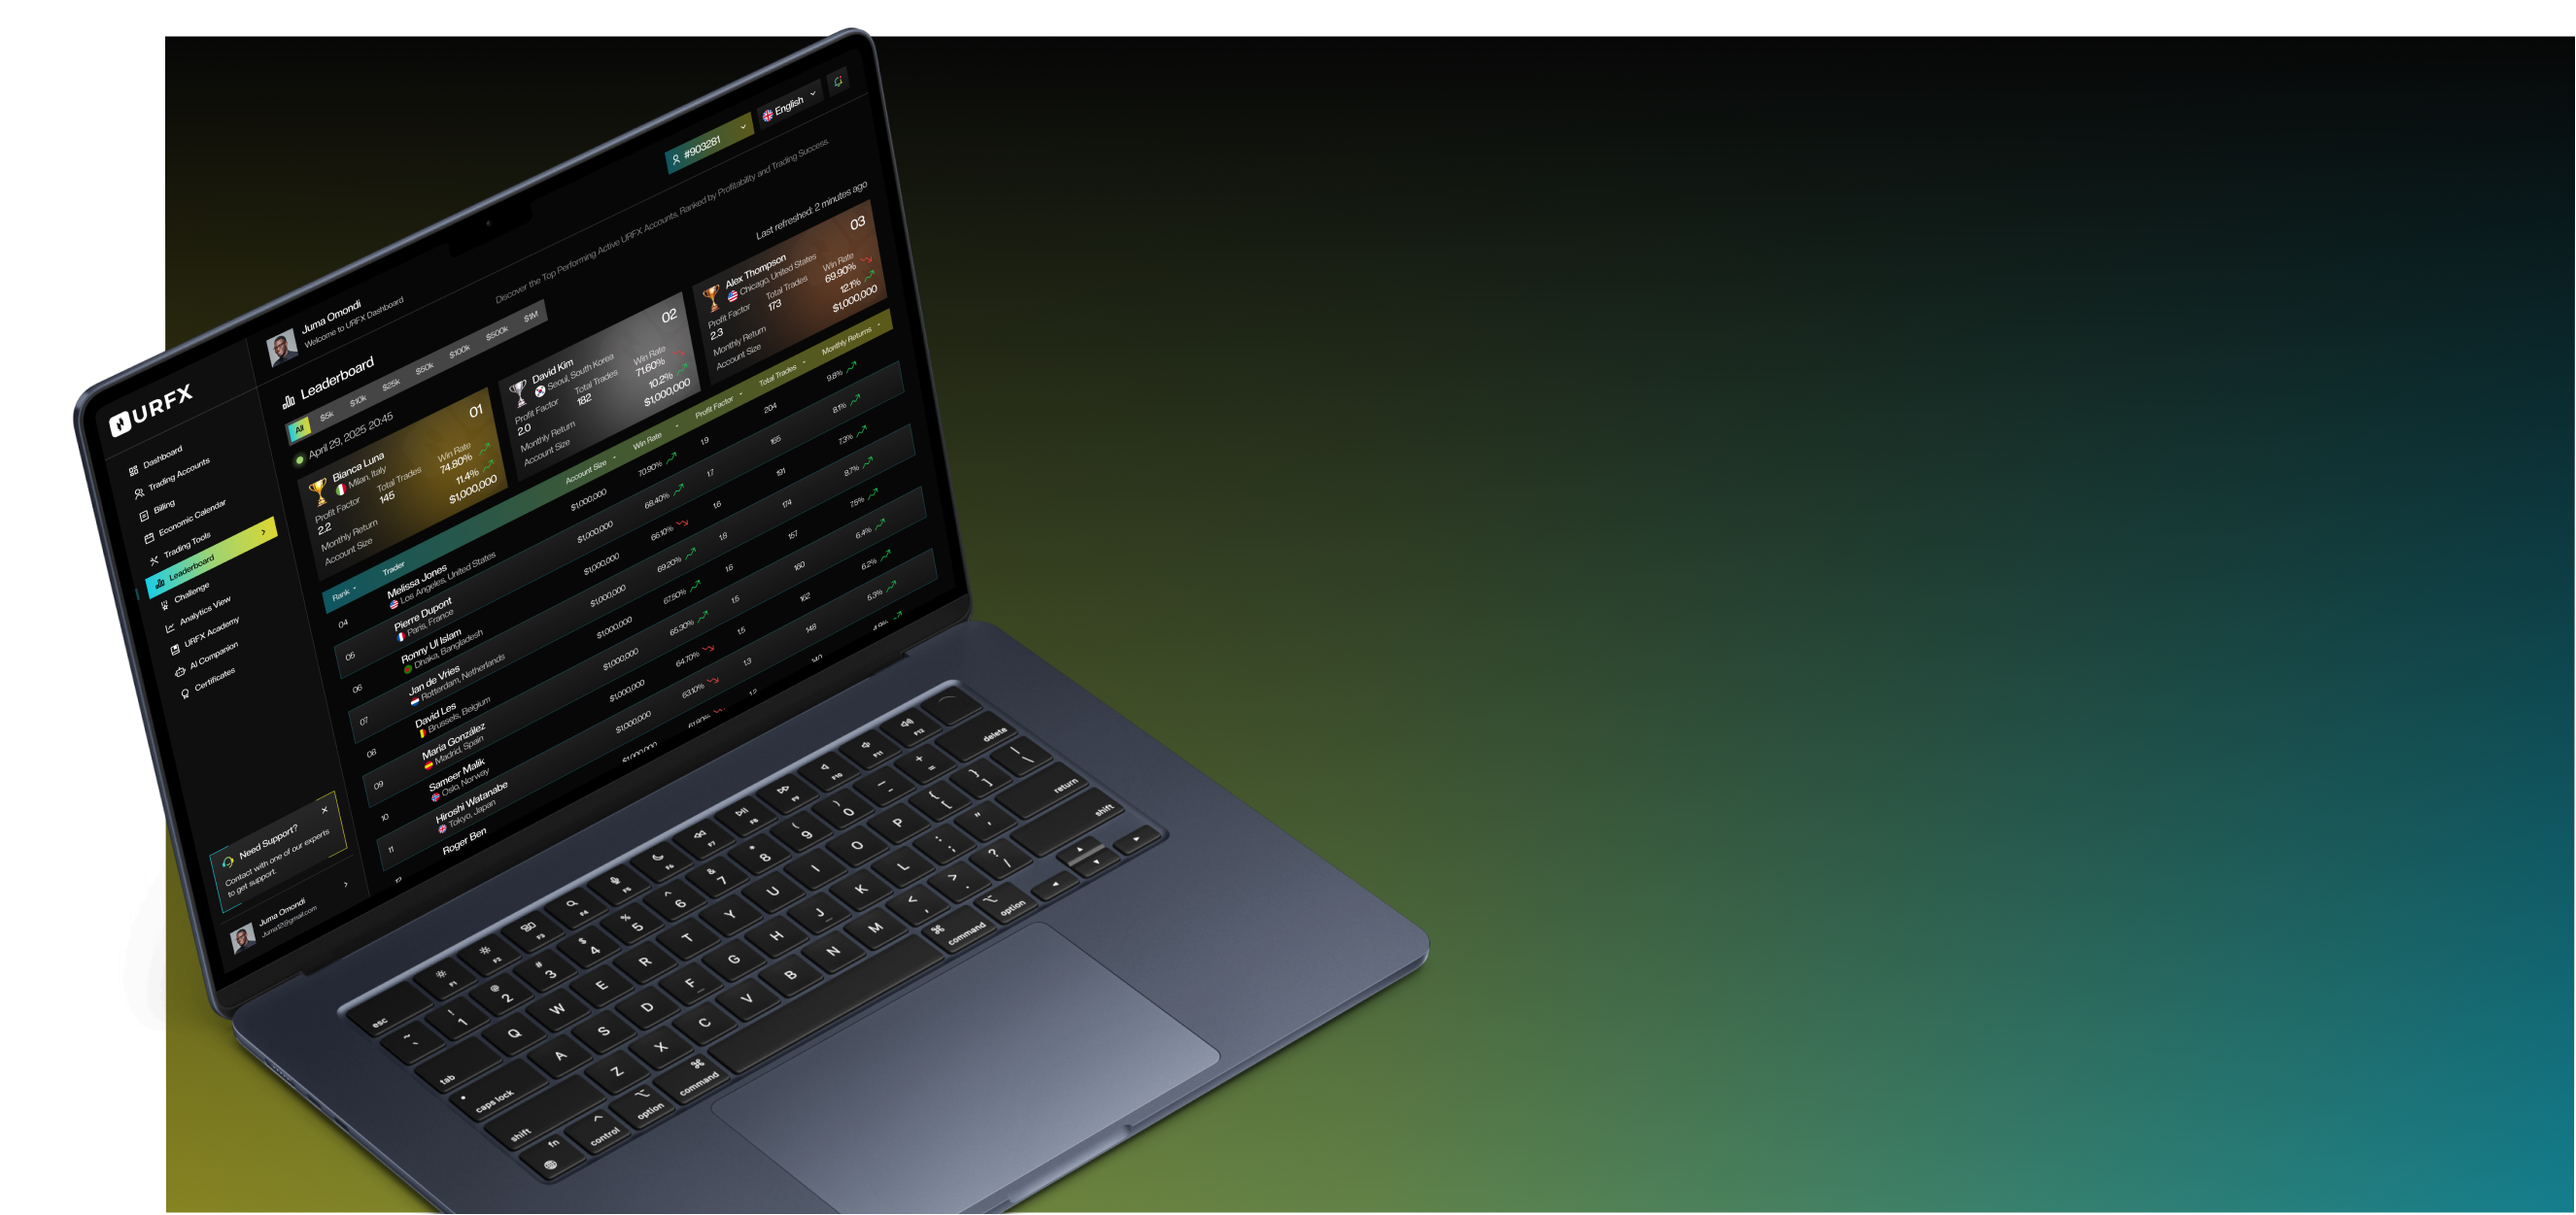
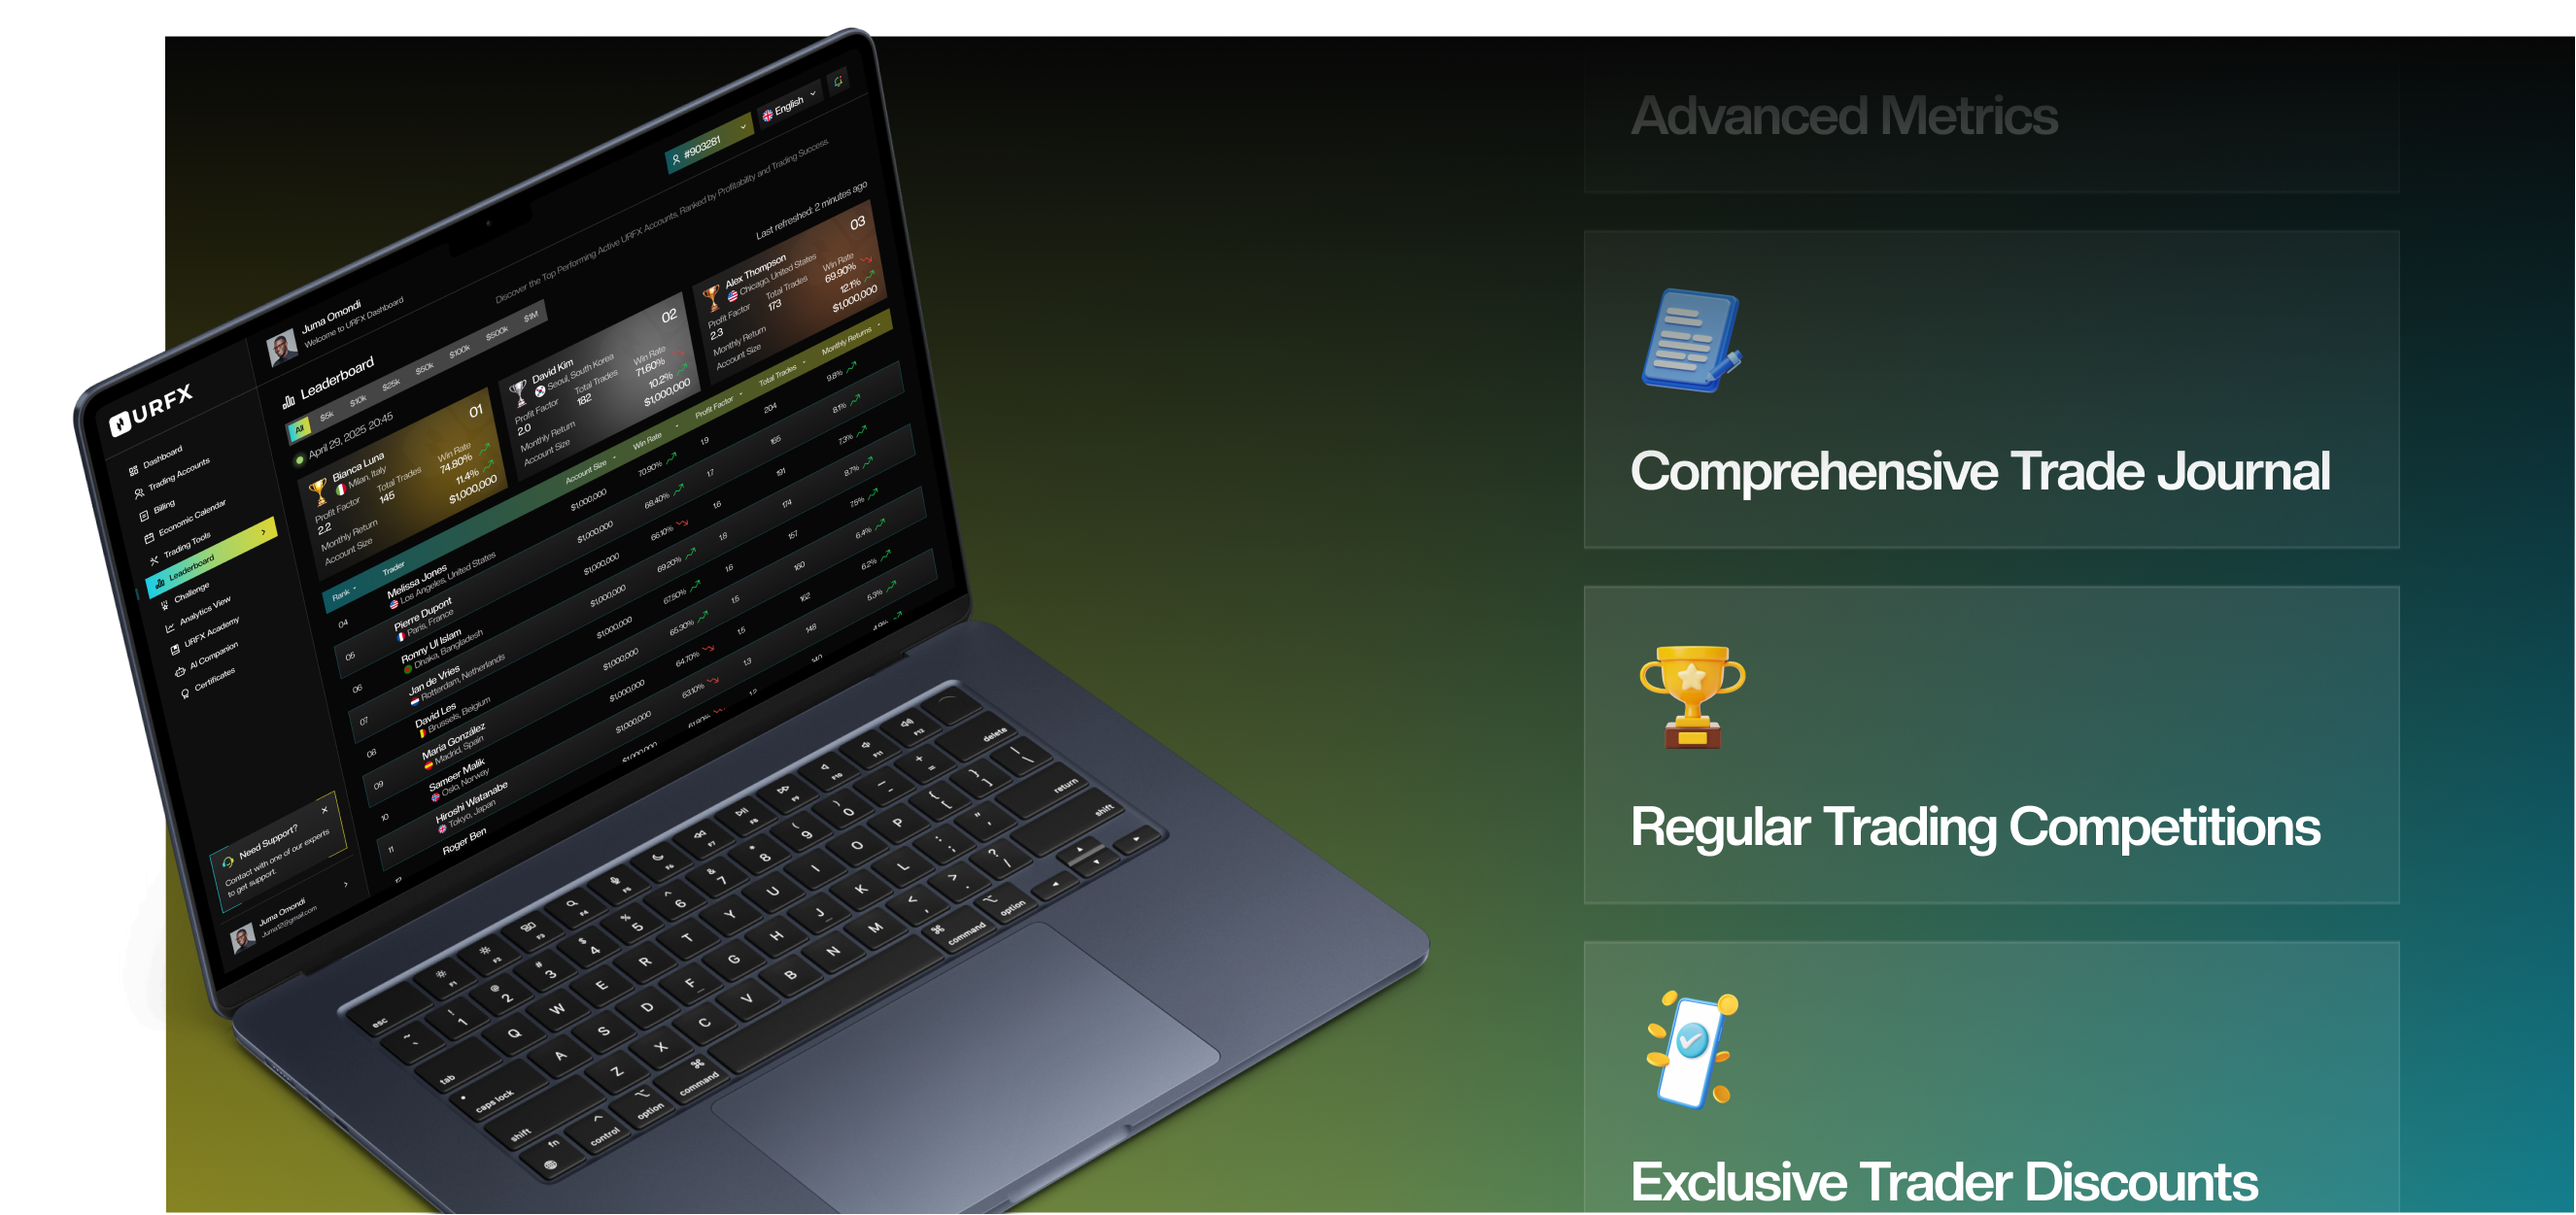
add

diff --git a/app/components/Footer.jsx b/app/components/Footer.jsx
@@ -12,11 +12,11 @@ const Footer = () => {
           "linear-gradient(to right, #1CCDE6 0%, #9ED473 40%, #DBD633 100%)",
       }}
     >
-      <div className="max-w-screen-xl mx-auto px-10 py-10">
-        <div className="flex flex-row items-start gap-0">
-          {/* Column 1: Brand — ~22% */}
-          <div className="flex flex-col gap-4" style={{ width: "22%" }}>
-            {/* Logo */}
+      <div className="max-w-screen-xl mx-auto px-6 md:px-10 py-10">
+        <div className="flex flex-col gap-10 md:flex-row md:gap-0 md:items-start">
+
+          {/* Column 1 */}
+          <div className="flex flex-col gap-4 w-full md:w-[22%]">
             <div className="flex items-center gap-2">
               <Image
                 src="/assets/icons/logo-footer.png"
@@ -26,13 +26,11 @@ const Footer = () => {
               />
             </div>
 
-            {/* Company info */}
             <div className="text-black text-sm leading-relaxed">
               <p>URFX Global Trading Inc.</p>
               <p>Registered in Vancouver, Canada</p>
             </div>
 
-            {/* Contact */}
             <div className="flex flex-col gap-2 text-black text-sm mt-2">
               <a
                 href="mailto:support@urfx.io"
@@ -51,11 +49,11 @@ const Footer = () => {
             </div>
           </div>
 
-          {/* Spacer */}
-          <div style={{ width: "8%" }} />
+          {/* Spacer (only md and up) */}
+          <div className="hidden md:block md:w-[8%]" />
 
-          {/* Column 2: Quick Links — ~15% */}
-          <div className="flex flex-col gap-2" style={{ width: "15%" }}>
+          {/* Column 2 */}
+          <div className="flex flex-col gap-2 w-full md:w-[15%]">
             <p className="text-black font-bold text-sm mb-1">Quick Links</p>
             {[
               "Home",
@@ -75,8 +73,8 @@ const Footer = () => {
             ))}
           </div>
 
-          {/* Column 3: Legal — ~15% */}
-          <div className="flex flex-col gap-2" style={{ width: "15%" }}>
+          {/* Column 3 */}
+          <div className="flex flex-col gap-2 w-full md:w-[15%]">
             <p className="text-black font-bold text-sm mb-1">Legal</p>
             {[
               "Terms & Conditions",
@@ -94,18 +92,17 @@ const Footer = () => {
             ))}
           </div>
 
-          {/* Spacer */}
-          <div style={{ width: "3%" }} />
+          {/* Spacer (only md and up) */}
+          <div className="hidden md:block md:w-[3%]" />
 
-          {/* Column 4: Newsletter — ~37% */}
-          <div className="flex flex-col gap-4" style={{ width: "37%" }}>
-            <h3 className="text-black font-black text-3xl leading-tight">
+          {/* Column 4 */}
+          <div className="flex flex-col gap-4 w-full md:w-[37%]">
+            <h3 className="text-black font-black text-2xl md:text-3xl leading-tight">
               Subscribe to our
               <br />
               Newsletter
             </h3>
 
-            {/* Email input */}
             <input
               type="email"
               placeholder="Enter your email"
@@ -116,16 +113,16 @@ const Footer = () => {
               }}
             />
 
-            {/* Submit button */}
             <div>
               <button
-                className="bg-white text-black font-bold text-sm px-8 py-3 rounded-sm hover:bg-black hover:text-white transition-colors duration-200"
+                className="bg-white text-black font-bold text-sm px-8 py-3 rounded-sm hover:bg-black hover:text-white transition-colors duration-200 w-full sm:w-auto"
                 style={{ border: "2px solid #000" }}
               >
                 Submit
               </button>
             </div>
           </div>
+
         </div>
       </div>
     </footer>

diff --git a/app/components/Revaloution.jsx b/app/components/Revaloution.jsx
@@ -1,0 +1,46 @@
+import Image from "next/image";
+import ButtonGradient from "./ButtonGradient";
+
+const Revaloution = () => {
+  return (
+    <section className="mx-auto w-full px-5 py-10 text-white md:px-8">
+      <div className="mx-auto max-w-[1240px]">
+        <div className="mx-auto mb-8 max-w-[760px] text-center">
+          <h2 className="text-3xl font-bold md:text-5xl">
+            Revolutionary Trading Dashboard
+          </h2>
+          <p className="mx-auto mt-4 max-w-[720px] text-sm text-white/70 md:text-base">
+            Unleash your trading potential with our state-of-the-art dashboard,
+            featuring advanced analytics that provide unparalleled insights into
+            your performance.
+          </p>
+        </div>
+
+        <div className="mx-auto max-w-[1240px]">
+          <Image
+            src="/assets/images/laptop.png"
+            alt="Trading dashboard on laptop"
+            width={1240}
+            height={617}
+            className="hidden h-auto w-full md:block"
+            priority
+          />
+          <Image
+            src="/assets/images/mobile-laptop.png"
+            alt="Trading dashboard on mobile"
+            width={375}
+            height={688}
+            className="mx-auto h-auto w-full max-w-[375px] md:hidden"
+            priority
+          />
+        </div>
+
+        <div className="mt-8 flex justify-center">
+          <ButtonGradient>Start Challenge</ButtonGradient>
+        </div>
+      </div>
+    </section>
+  );
+};
+
+export default Revaloution;

diff --git a/app/page.js b/app/page.js
@@ -12,6 +12,7 @@ import JoinTeam from "./components/JoinTeam";
 import Testimonial from "./components/Testimonial";
 import Faqs from "./components/Faqs";
 import Footer from "./components/Footer";
+import Revaloution from "./components/Revaloution";
 
 export default function Home() {
   return (
@@ -26,7 +27,7 @@ export default function Home() {
    <Community />
    <PerformanceChart />
    <ChooseYourAccount />
-
+    <Revaloution />
    <Testimonial />
    <JoinTeam />
    <Faqs />
